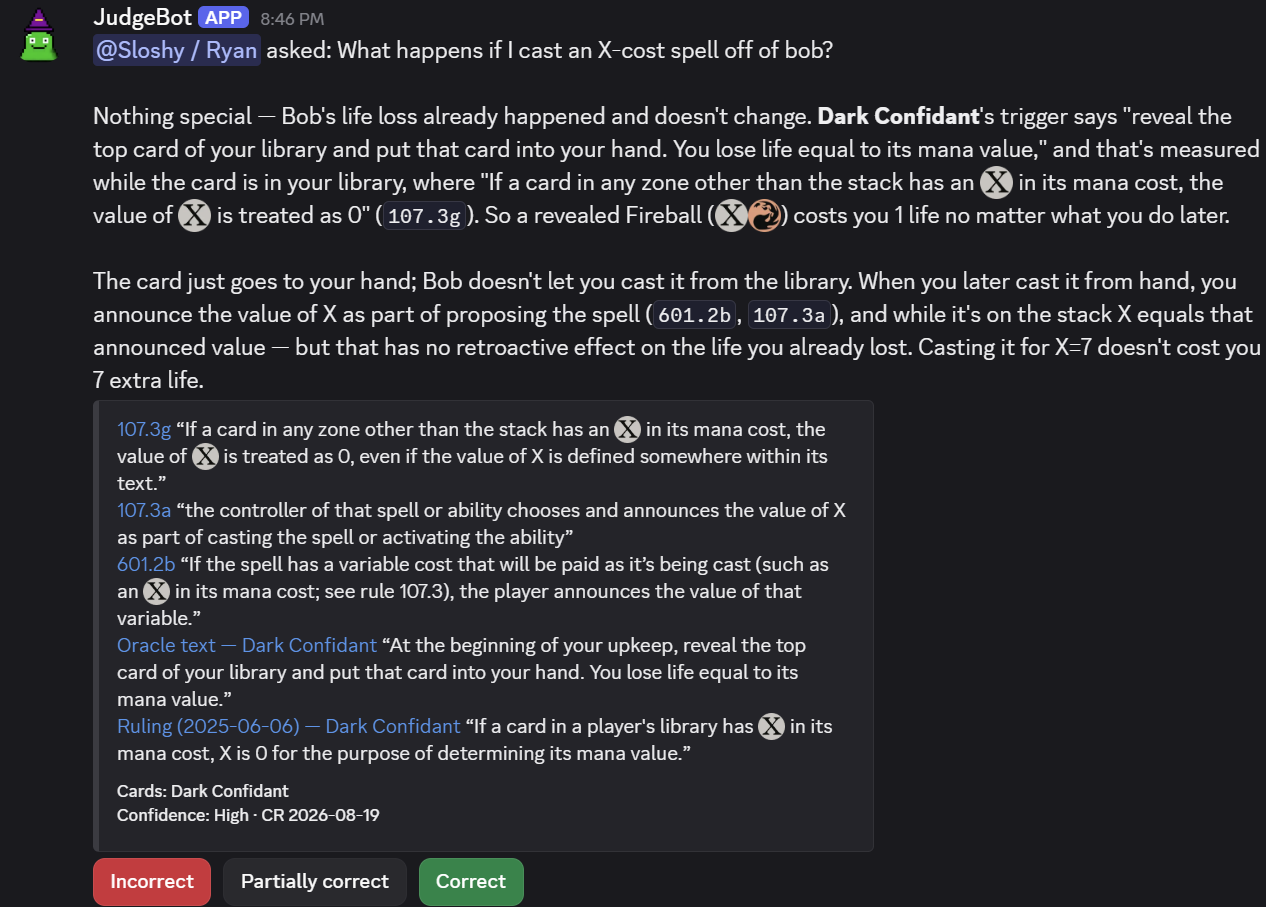
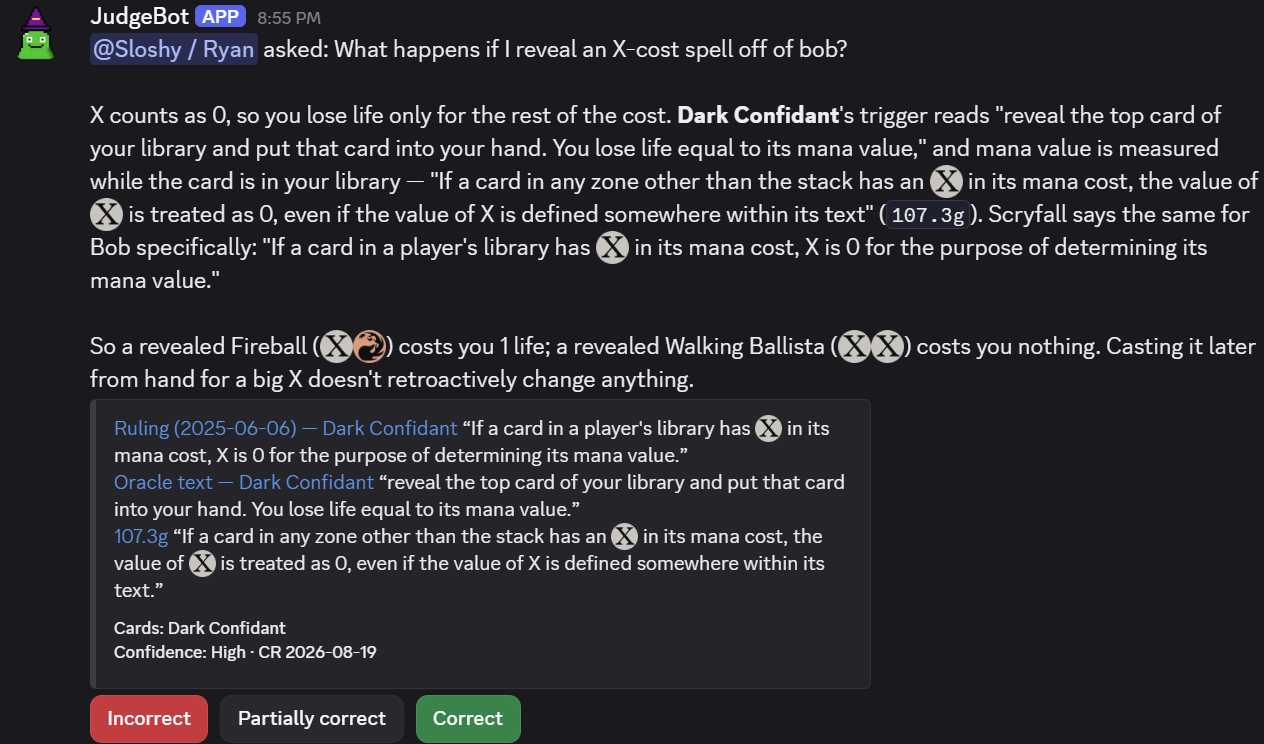
Use the reveal question for the Discord answer screenshot
Claude-Session: https://claude.ai/code/session_01Q5SsSH4yLamw388jztbeCy

diff --git a/site/src/content/docs/start-here/sample-answers.md b/site/src/content/docs/start-here/sample-answers.md
@@ -17,7 +17,7 @@ A nickname that could mean several cards gets a question back instead of a guess
 On Discord the answer arrives as a message, with the citations in an embed and the rating
 buttons beneath it. The "did you mean…?" choices are buttons too.
 
-![A Discord reply to /judge. It restates the question about an X-cost spell and Dark Confidant, answers in two paragraphs with rule numbers inline and mana symbols drawn as pictures, and cites three rules, the card's Oracle text and a dated Dark Confidant ruling in an embed that ends with "Cards: Dark Confidant", the confidence and the CR version. Three buttons follow: Incorrect, Partially correct, Correct.](../../../assets/screenshots/discord-answer-citations.png)
+![A Discord reply to /judge. It restates the question about revealing an X-cost spell to Dark Confidant and answers in two paragraphs that X counts as 0, with a rule number inline and mana symbols drawn as pictures. An embed quotes a dated Dark Confidant ruling, the card's Oracle text and rule 107.3g, and ends with "Cards: Dark Confidant", the confidence and the CR version. Three buttons follow: Incorrect, Partially correct, Correct.](../../../assets/screenshots/discord-answer-citations.png)
 
 ![A Discord reply asking which Tibalt was meant: a numbered list of three cards, and a button for each.](../../../assets/screenshots/discord-did-you-mean.png)
 

diff --git a/README.md b/README.md
@@ -10,7 +10,7 @@ current Oracle text, or a prior rated call. On Discord, buttons rate an answer 1
 (incorrect / partially correct / correct), and ratings feed back into how future answers
 are grounded.
 
-<img src="site/src/assets/screenshots/discord-answer-citations.png" width="720" alt="A Discord reply to /judge about an X-cost spell and Dark Confidant: a two-paragraph ruling with rule numbers inline and mana symbols drawn as pictures, an embed quoting three rules, the card's Oracle text and a dated ruling, the cards the question resolved to, the confidence and CR version, and three rating buttons.">
+<img src="site/src/assets/screenshots/discord-answer-citations.png" width="720" alt="A Discord reply to /judge about revealing an X-cost spell to Dark Confidant: a two-paragraph ruling with a rule number inline and mana symbols drawn as pictures, an embed quoting a dated ruling, the card's Oracle text and rule 107.3g, the card the question resolved to, the confidence and CR version, and three rating buttons.">
 
 The same pipeline behind the web page:
 
